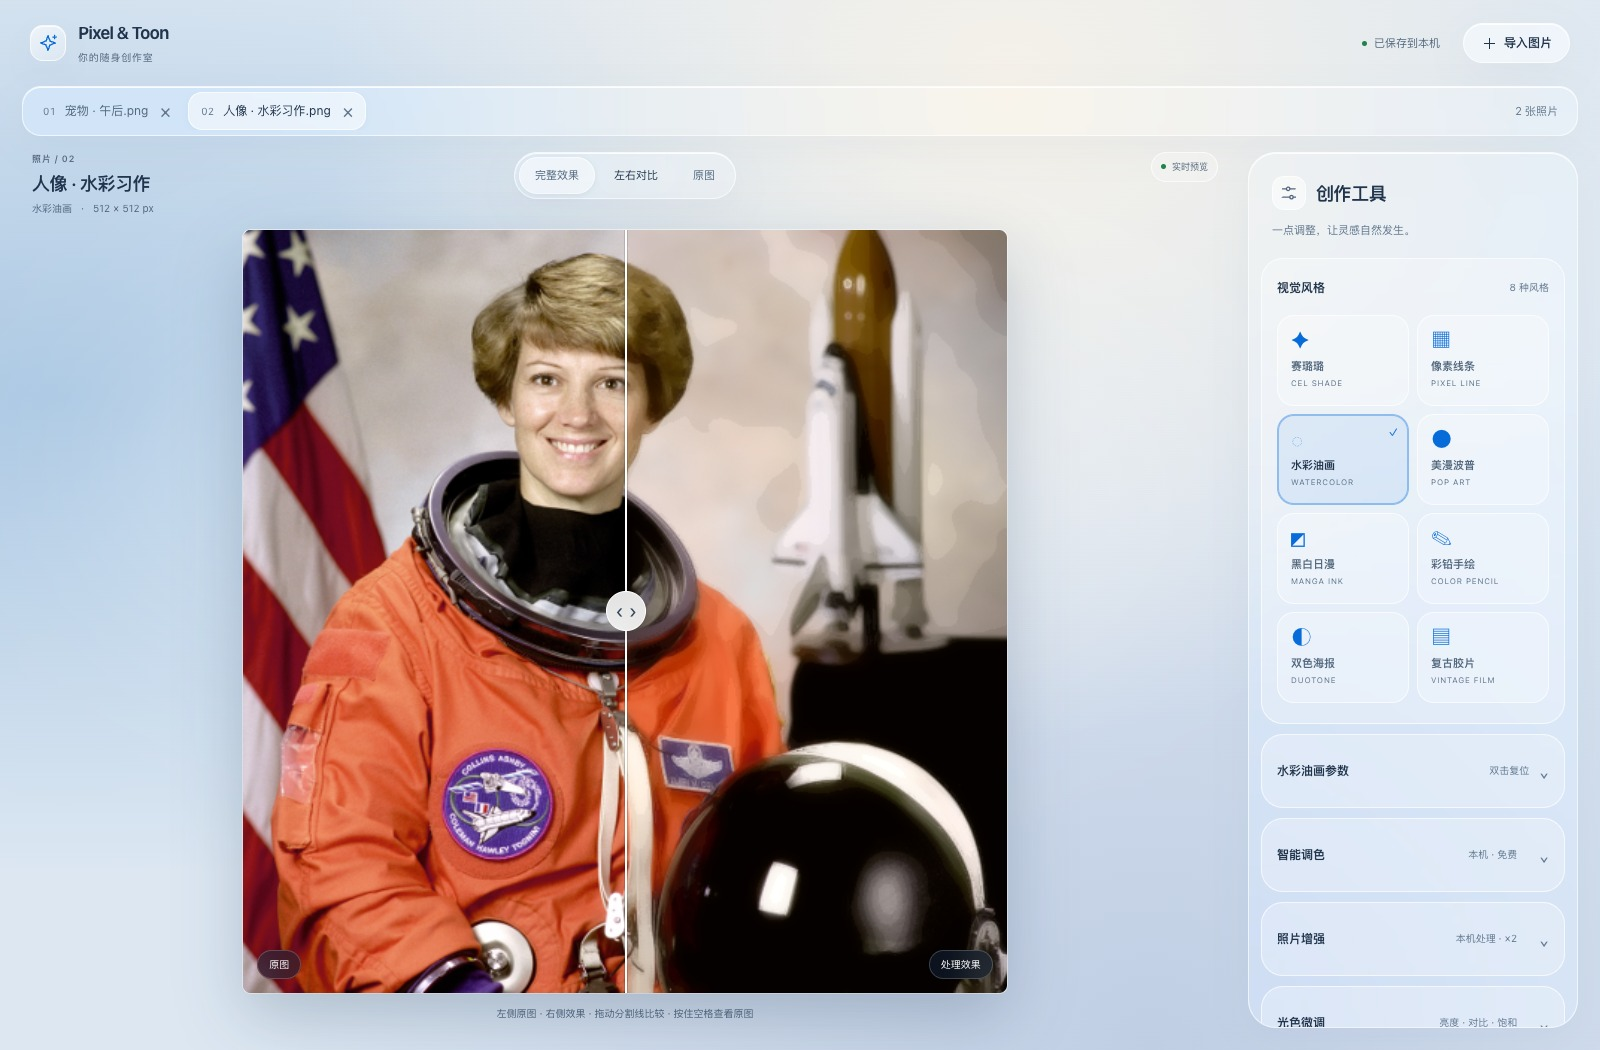
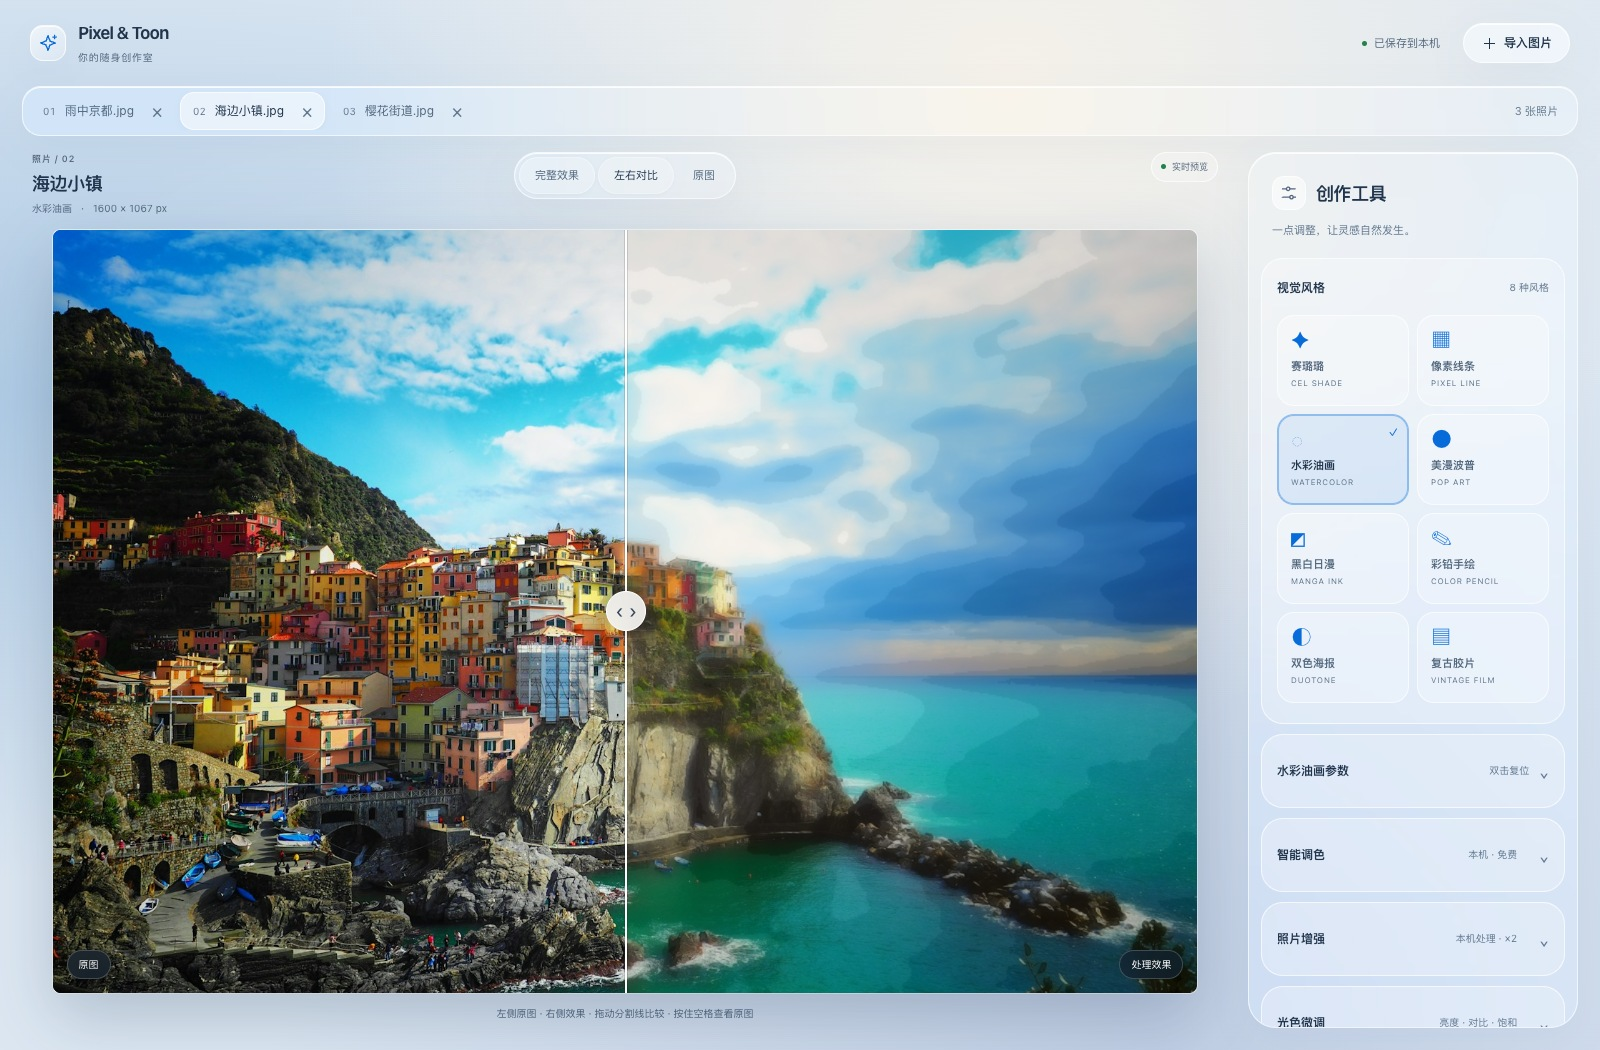
docs: showcase Kyoto coast and blossoms with a more personal README

diff --git a/README.md b/README.md
@@ -1,99 +1,105 @@
 <div align="center">
-  <img src="desktop/assets/icon.png" width="104" alt="Pixel & Toon Studio 图标">
+  <img src="desktop/assets/icon.png" width="100" alt="Pixel & Toon Studio 图标">
   <h1>Pixel & Toon Studio</h1>
-  <p><strong>把喜欢的照片，变成另一种风格。</strong></p>
-  <p>八种艺术风格 · 本机照片增强 · 拍立得相框 · 高清 PNG 导出</p>
-  <p>Mac 桌面 / 网页 &nbsp; · &nbsp; 照片不上传 &nbsp; · &nbsp; 无需账号或 API Key</p>
+  <p><strong>照片拍好了，再玩一会儿。</strong></p>
+  <p>把旅行随拍变成漫画、水彩，或者一张想留下来的小卡片。</p>
   <p>
     <a href="https://github.com/feihanwen0928-eng/pixel-toon-studio/releases/latest"><strong>下载 Mac 版 ↗</strong></a>
-    &nbsp; / &nbsp;
-    <a href="#八种风格一张照片的八种表达">效果画廊</a>
-    &nbsp; / &nbsp;
-    <a href="#从导入到成品">功能一览</a>
-    &nbsp; / &nbsp;
+    &nbsp; · &nbsp;
+    <a href="#先看几张实际效果">看看效果</a>
+    &nbsp; · &nbsp;
     <a href="docs/DEVELOPMENT.md">开发说明</a>
   </p>
 </div>
 
-![Pixel & Toon Studio 实际界面：水彩油画风格、左右对比、多照片标签与八种风格选择](docs/showcase/editor.jpg)
+![真实编辑界面：海滨小镇的原图与水彩效果对比，右侧可选择八种风格](docs/showcase/editor.jpg)
 
-选一张照片，试试不同风格，再把光色、笔触和相框调到喜欢的样子。人像、宠物、旅行随拍，都可以在一个工作区里慢慢编辑；随时拖动分割线，看清原图与处理效果的变化。
+拍得挺喜欢的一张照片，有时候就是想换个样子。变成一张漫画分镜，试试水彩笔触，或者加上相纸边框，存下来当作旅行的小纪念。
 
-## 八种风格，一张照片的八种表达
+Pixel & Toon Studio 就是用来做这件小事的。导入照片，选个风格，调到自己喜欢，再导出。**照片在自己的设备上处理，不用注册，也不用填 API Key。** Mac 版装好后就能离线使用。
 
-同一张原图，使用当前 v1.0 的默认参数实际导出。风格选好后，还能继续调整墨线、色块、笔触、网点、颗粒和配色。
+## 先看几张实际效果
 
-![八种真实输出：赛璐璐、像素线条、水彩油画、美漫波普、黑白日漫、彩铅手绘、双色海报与复古胶片](docs/showcase/styles.jpg)
+这次选了三张很不一样的照片：雨中的京都、海边的彩色小镇，还有开满樱花的街道。下面都是当前版本实际导出的效果，使用默认参数，没有额外修图。
 
-| 风格 | 画面特点 | 可调细节 |
-| :--- | :--- | :--- |
-| **赛璐璐** | 动漫感色块与清晰轮廓 | 色阶、墨线、边缘、背景保护 |
-| **像素线条** | 像素颗粒与插画线条 | 像素尺寸、细节过滤、色块数量 |
-| **水彩油画** | 柔和的颜料融合与绘画笔触 | 笔触尺寸、画意强度、细节保留 |
-| **美漫波普** | 漫画分色、细腻网点与墨线 | 网点大小与强度、色块、RGB 错位 |
-| **黑白日漫** | 黑白墨线、网点阴影与留白 | 阴影层次、墨线、留白保护 |
-| **彩铅手绘** | 彩铅线稿与纸面纹理 | 笔触、线稿、颜料浓度、纸张质感 |
-| **双色海报** | 两种主色构成的海报感 | 暗部与亮部色相、分色位置、层次 |
-| **复古胶片** | 温暖褪色、胶片颗粒与高光晕染 | 褪色、颗粒、色温、光晕 |
+### 雨天的京都，试试漫画分镜
 
-### 人像：从照片到动漫与日漫
+这张的电线、屋檐和招牌很多，适合看线条处理。复古胶片保留了街巷的棕色调，多一点颗粒感；换成黑白日漫，注意力就更多落在轮廓、阴影和路面的反光上。
 
-左侧保留原图，中间是赛璐璐，右侧是黑白日漫。可以先看整体气质，再调整轮廓、明暗和阴影层次。
+![京都雨巷：原图、复古胶片、黑白日漫实际对比](docs/showcase/kyoto.jpg)
 
-![同一张人像的原图、赛璐璐和黑白日漫效果对比](docs/showcase/portrait.jpg)
+[打开黑白日漫 PNG 大图](docs/showcase/samples/kyoto-manga.png)
 
-### 宠物：彩铅的柔软，胶片的温暖
+### 海边的小镇，颜色可以再放开一点
 
-同一张猫咪照片，分别尝试彩铅手绘与复古胶片。风格转换保留原有构图，不需要输入提示词。
+黄房子、红屋顶、蓝绿色的海，这张本来就很适合试风格。赛璐璐把色块分得更清楚，水彩油画则把细节揉进了笔触里。两种味道，留哪张看你的心情。
 
-![猫咪原图与彩铅手绘、复古胶片实际效果对比](docs/showcase/pets.jpg)
+![海滨小镇：原图、赛璐璐、水彩油画实际对比](docs/showcase/coast.jpg)
 
-## 照片增强，先整理底图的细节
+[打开水彩油画 PNG 大图](docs/showcase/samples/coast-watercolor.png)
 
-**纹理清晰 / LiveAction ×2** 用于照片放大与纹理增强；**颗粒降噪 / FFDNet** 用于减少噪点，再放大到两倍尺寸。两种方式独立选择，可以直接下载增强底图，也可以接着叠加艺术风格。
+### 樱花这张，想留一点软软的感觉
 
-![225×150 猫咪输入与 LiveAction 实际生成的 450×300 增强结果](docs/showcase/enhancement.jpg)
+花很多，颜色也很满。这里放了水彩和彩铅两种处理：一个看颜料融合，一个看线稿和纸面纹理。喜欢更轻一点的效果，可以继续把画意强度或彩铅浓度往回收。
 
-> 上例为实际模型输出，未叠加艺术滤镜。两侧按相同显示尺寸展示，左侧低分辨率输入采用最近邻放大。处理效果随照片而变，小模型对严重失焦、运动模糊及缺失细节的恢复能力有限。
+![樱花街道：原图、水彩油画、彩铅手绘实际对比](docs/showcase/blossoms.jpg)
 
-增强强度可以调整；不满意可以关闭、撤销或重新生成。**智能调色**也能独立开启，用来优化明暗、白平衡与色彩，再用亮度、对比度和饱和度做最后微调。
+[打开彩铅手绘 PNG 大图](docs/showcase/samples/blossoms-pencil.png)
 
-## 加一圈相纸，留下一句心情
+## 还可以换这些风格
 
-打开拍立得相框，给成品加上暖白边框与留白签名。内置 **48 条中英文短句**，可按主题与语言挑选；经你同意，也可以展示照片中的拍摄信息。
+一共八种：**赛璐璐、像素线条、水彩油画、美漫波普、黑白日漫、彩铅手绘、双色海报、复古胶片**。不同照片适合的风格也不同，所以这里没有强行让同一张图套满八遍。
 
-![真实 PNG 相框成品：复古胶片人像和彩铅手绘猫咪，配以 Life lately. 文案](docs/showcase/frames.jpg)
+![三张照片的八种风格实拍输出画廊](docs/showcase/styles.jpg)
 
-相框、文字与处理效果一起导出，保存下来就能分享。
+选好风格之后，还可以接着调。比如把网点收细、墨线放轻，给胶片加一点暖色，或者为双色海报重新选一组配色。参数随时能改，也能撤销；滑块双击就会回到默认值。
 
-## 从导入到成品
+## 想把它做成一张小卡片
 
-| 想做什么 | 在这里怎么做 |
-| :--- | :--- |
-| **直接导入手机照片** | 支持 HEIC / HEIF、PNG、JPEG、WebP；可选择文件、拖入或粘贴 |
-| **同时编辑几张照片** | 用标签切换，每张照片分别保留自己的风格与调整 |
-| **看清改动** | 完整效果、左右对比、原图三种预览；按住空格临时查看原图 |
-| **放心尝试** | 支持撤销、重做，双击滑块复位参数 |
-| **下次接着编辑** | 工作区自动保存在本机，重新打开后恢复 |
-| **保存最终成品** | 导出高清 PNG，包含增强、风格、调色和相框；不复制原始 EXIF |
-| **在 Mac 上顺手打开** | 支持 Finder「打开方式」和拖到 Dock 图标，照片进入编辑标签 |
+打开拍立得相框，挑一句文案，再导出就好了。这里用了同一句 **“Postcard from here.”**，放在三张不同的旅行照片上。
 
-### 照片留在你的设备上
+![京都胶片、海边水彩与樱花彩铅的真实相框成品](docs/showcase/frames.jpg)
 
-图片处理、HEIC 解码和模型推理都在本机完成。**不上传照片，不需要登录，不需要购买 API 调用。** Mac 安装包自带模型和运行时，可以离线使用；网页版在相应资源缓存完成后也支持离线编辑。
+内置 48 条中英文短句，可以按主题和语言挑。边框和文字会一起印进导出的 PNG 里，不用再去别的软件拼一次。
 
-工作区适合继续创作，导出的 PNG 适合长期保存。Mac 与浏览器的工作区独立，清理浏览器站点数据会清空其中的照片和编辑记录。
+## 有些照片，只想先弄清楚一点
 
-## 下载即用
+除了换风格，也可以先处理底图：
+
+- **纹理清晰 / LiveAction ×2**：放大照片，增强纹理和轮廓。
+- **颗粒降噪 / FFDNet**：先减少噪点，再放大到两倍尺寸。细节会更柔和一些，适合有颗粒感的照片。
+
+下面把海边照片缩小到 600 × 400，再用 LiveAction 放大，和普通插值放大放在一起看。截取的是相同位置，两边显示尺寸一致，没有叠加艺术风格。
+
+![同一低分辨率海滨照片：普通插值放大与 LiveAction ×2 的相同位置局部对比](docs/showcase/enhancement.jpg)
+
+它能做的是照片增强。严重失焦、运动模糊，或者原本就没拍到的细节，不能指望一个小模型全部补回来。增强之后可以直接下载底图，也可以继续试上面的风格。
+
+遇到光色不太舒服的照片，还能单独打开**智能调色**，再用亮度、对比度和饱和度做一点微调。不必每张都开，原图已经喜欢的话，留着就好。
+
+## 用起来的几个小地方
+
+- **手机照片也能直接放进来。** 支持 HEIC / HEIF、PNG、JPEG、WebP，可以选文件、拖入或粘贴。
+- **几张一起慢慢修。** 每张照片有自己的标签和设置，来回切换不会把参数串到一起。
+- **随时看看原图。** 支持完整效果、左右对比；按住空格也能临时看原图，松开继续编辑。
+- **关掉，下次接着来。** 工作区自动保存在本机，重新打开会恢复。网页版与 Mac 版各存各的；清理浏览器站点数据会清掉网页工作区。
+- **喜欢就导出 PNG。** 风格、增强、调色和相框一起保存，不复制原始 EXIF。成品想长期留着，记得导出来。
+- **Mac 上也能顺手打开照片。** 支持 Finder 的「打开方式」，或者把照片拖到 Dock 图标上。
+
+图片解码、滤镜和模型推理都在本机完成。Mac 安装包带齐了模型和运行时；网页版在相应资源缓存后也能离线用。
+
+## 想试试的话
 
 **[下载最新版 Mac 安装包 →](https://github.com/feihanwen0928-eng/pixel-toon-studio/releases/latest)**
 
-支持 **Apple Silicon · macOS 13 或更新版本**。打开 DMG，把应用拖进「应用程序」，再导入一张照片即可开始，无需安装 Node.js 或使用终端。
+目前支持 **Apple Silicon · macOS 13 或更新版本**。打开 DMG，拖进「应用程序」就能用。
 
-当前版本采用 ad-hoc 签名，尚未进行 Apple 公证。如果 macOS 提示阻止打开，可在「系统设置 → 隐私与安全性」中选择「仍要打开」。Release 中同时提供 SHA-256 校验文件。
+安装包暂未进行 Apple 公证。如果 macOS 阻止打开，可以在「系统设置 → 隐私与安全性」里选择「仍要打开」。下载页也放了 SHA-256 校验文件。
+
+想跑网页版、看源码或者自己改一改，可以去看 [开发说明](docs/DEVELOPMENT.md)。遇到问题，欢迎 [开个 Issue](https://github.com/feihanwen0928-eng/pixel-toon-studio/issues)，带上操作步骤和截图会更容易排查。
 
 ---
 
-[开发与网页版运行说明](docs/DEVELOPMENT.md) · [展示图片与样片来源](docs/showcase/SOURCES.md) · [文案来源](docs/CAPTION_SOURCES.md) · [第三方许可](desktop/THIRD_PARTY_NOTICES.md) · [MIT License](LICENSE)
+谢谢三张原片的摄影师：**Hamza ERBAY、Sung Jin Cho、Stephan Widua**。[原图与展示制作说明](docs/showcase/SOURCES.md)里保留了来源。画廊为了便于浏览做了缩放、排版和 JPEG 压缩，文中的 PNG 链接是软件直接导出的文件。
 
-展示图片来自当前版本的真实界面与处理输出，未使用生成式图片替代效果；为了便于浏览，展示图经过排版、缩小和 JPEG 压缩，应用实际导出格式为 PNG。
+[文案来源](docs/CAPTION_SOURCES.md) · [第三方许可](desktop/THIRD_PARTY_NOTICES.md) · [MIT License](LICENSE)

diff --git a/docs/showcase/SOURCES.md b/docs/showcase/SOURCES.md
@@ -1,25 +1,36 @@
-# 展示图来源与制作说明
+# 展示图片与原片来源
 
-README 的所有界面与效果图均由 Pixel & Toon Studio v1.0.0 的实际生产构建产生。没有通过生成式图片模拟、修补或夸大处理效果。
+README 展示的是 Pixel & Toon Studio v1.0.0 实际处理这三张照片的结果。照片来自 Unsplash，按 [Unsplash License](https://unsplash.com/license) 用于产品效果展示。照片版权仍归原摄影师，项目的 MIT 许可证不改变照片本身的许可。
 
-## 原图
+## 三张原片
 
-采用与回归样片相同来源的 scikit-image v0.25.2 公开图片：
+| 编号 | 照片 | 摄影师 | 来源 |
+| --- | --- | --- | --- |
+| C | 京都雨巷，撑伞的行人与传统建筑 | Hamza ERBAY | [Unsplash 原片](https://unsplash.com/photos/woman-holding-grey-umbrella-iRx2qFPhgk4) |
+| D | 意大利五渔村的彩色房屋与海岸 | Sung Jin Cho | [Unsplash 原片](https://unsplash.com/photos/buildings-on-cliff-during-daytime-bwORldZq6BI) |
+| E | 德国波恩的樱花街道 | Stephan Widua | [Unsplash 原片](https://unsplash.com/it/foto/albero-di-ciliegio-rosa-vicino-alle-auto-parcheggiate-in-strada-durante-il-giorno-ae4VmMbhanQ) |
 
-| 原图 | 作者 / 权利说明 | 固定来源 |
-| --- | --- | --- |
-| astronaut.png（512 × 512） | NASA，宇航员 Eileen Collins；public domain | [原始文件](https://github.com/scikit-image/scikit-image/blob/v0.25.2/skimage/data/astronaut.png) |
-| chelsea.png（451 × 300） | Stefan van der Walt；CC0 | [原始文件](https://github.com/scikit-image/scikit-image/blob/v0.25.2/skimage/data/chelsea.png) |
+为控制展示素材与处理时间，输入下载为宽 1600 px 的 JPEG：C 为 1600 × 2133，D 与 E 为 1600 × 1067。样例图片不代表摄影师或图中人物对项目的认可。
 
-作者和许可说明：[scikit-image v0.25.2 官方数据说明](https://github.com/scikit-image/scikit-image/blob/v0.25.2/skimage/data/_fetchers.py)。人物与宠物图片仅用于说明功能，不代表原作者、NASA 或图中人物对项目的认可。
+## 实际处理方式
 
-## 文件对应关系
+- 所有艺术风格样例均使用当前生产构建，通过真实编辑器导入并导出 PNG；使用风格默认参数，智能调色与照片增强关闭。
+- `editor.jpg` 是应用真实界面的截图：导入三张照片，海滨小镇选择水彩油画，并开启左右对比。
+- `kyoto.jpg` 是 C 原图、默认复古胶片和默认黑白日漫的并排展示。
+- `coast.jpg` 是 D 原图、默认赛璐璐和默认水彩油画的并排展示。
+- `blossoms.jpg` 是 E 原图、默认水彩油画和默认彩铅手绘的并排展示。
+- `styles.jpg` 展示八种风格，分别选用 C、D、E 的实际输出。缩略图为统一网格尺寸进行了裁切，各场景对比图与 PNG 文件保留完整构图。
+- `frames.jpg` 是 C 复古胶片、D 水彩油画、E 彩铅手绘的相框 PNG 成品。三张都选择应用内文案 Postcard from here.。
+- `enhancement.jpg` 使用 D 经浏览器高质量缩小得到的 600 × 400 输入，经实际 LiveAction 生成 1200 × 800 输出，与同一输入的浏览器高质量插值放大比较。两边均截取输出坐标 x=260、y=290、宽 503、高 300 的相同区域，以 1:1 像素显示；不叠加艺术风格。
 
-- `editor.jpg`：网页生产构建的真实浅色界面，导入两张图片，选择水彩油画并开启左右对比。
-- `styles.jpg`：同一张 astronaut 原图在八种风格下的真实 PNG 导出，使用各自默认参数，不开启智能调色或照片增强。
-- `portrait.jpg`：astronaut 原图、默认赛璐璐与默认黑白日漫输出。
-- `pets.jpg`：chelsea 原图、默认彩铅手绘与默认复古胶片输出。
-- `enhancement.jpg`：tests/fixtures/local-v2/low/chelsea-bicubic.png（225 × 150）经 LiveAction 生成 450 × 300 的真实增强底图，未叠加艺术滤镜。左侧输入以最近邻放大，右侧按同等显示尺寸展示。
-- `frames.jpg`：复古胶片人像、彩铅手绘宠物的真实相框 PNG 导出，选择应用内短句 Life lately.。
+排版图只进行缩放、组合与 JPEG 压缩，没有使用生成式图片、局部修补或额外调色来替代软件效果。
 
-画廊仅做等比例排版、缩放和 JPEG 压缩，保留图像内容。网页和 Mac 使用同一套处理管线；展示不构成对所有照片效果或恢复能力的保证。
+## 可直接打开的成品
+
+`samples/` 下三张 PNG 是编辑器直接导出的文件，没有再次压缩或修改：
+
+- [京都 · 黑白日漫](samples/kyoto-manga.png)
+- [海滨小镇 · 水彩油画](samples/coast-watercolor.png)
+- [樱花街道 · 彩铅手绘](samples/blossoms-pencil.png)
+
+这些展示素材与 tests/fixtures 中用于代码回归的测试样片用途独立。README 不再使用宇航员或猫咪测试图作为产品展示。
